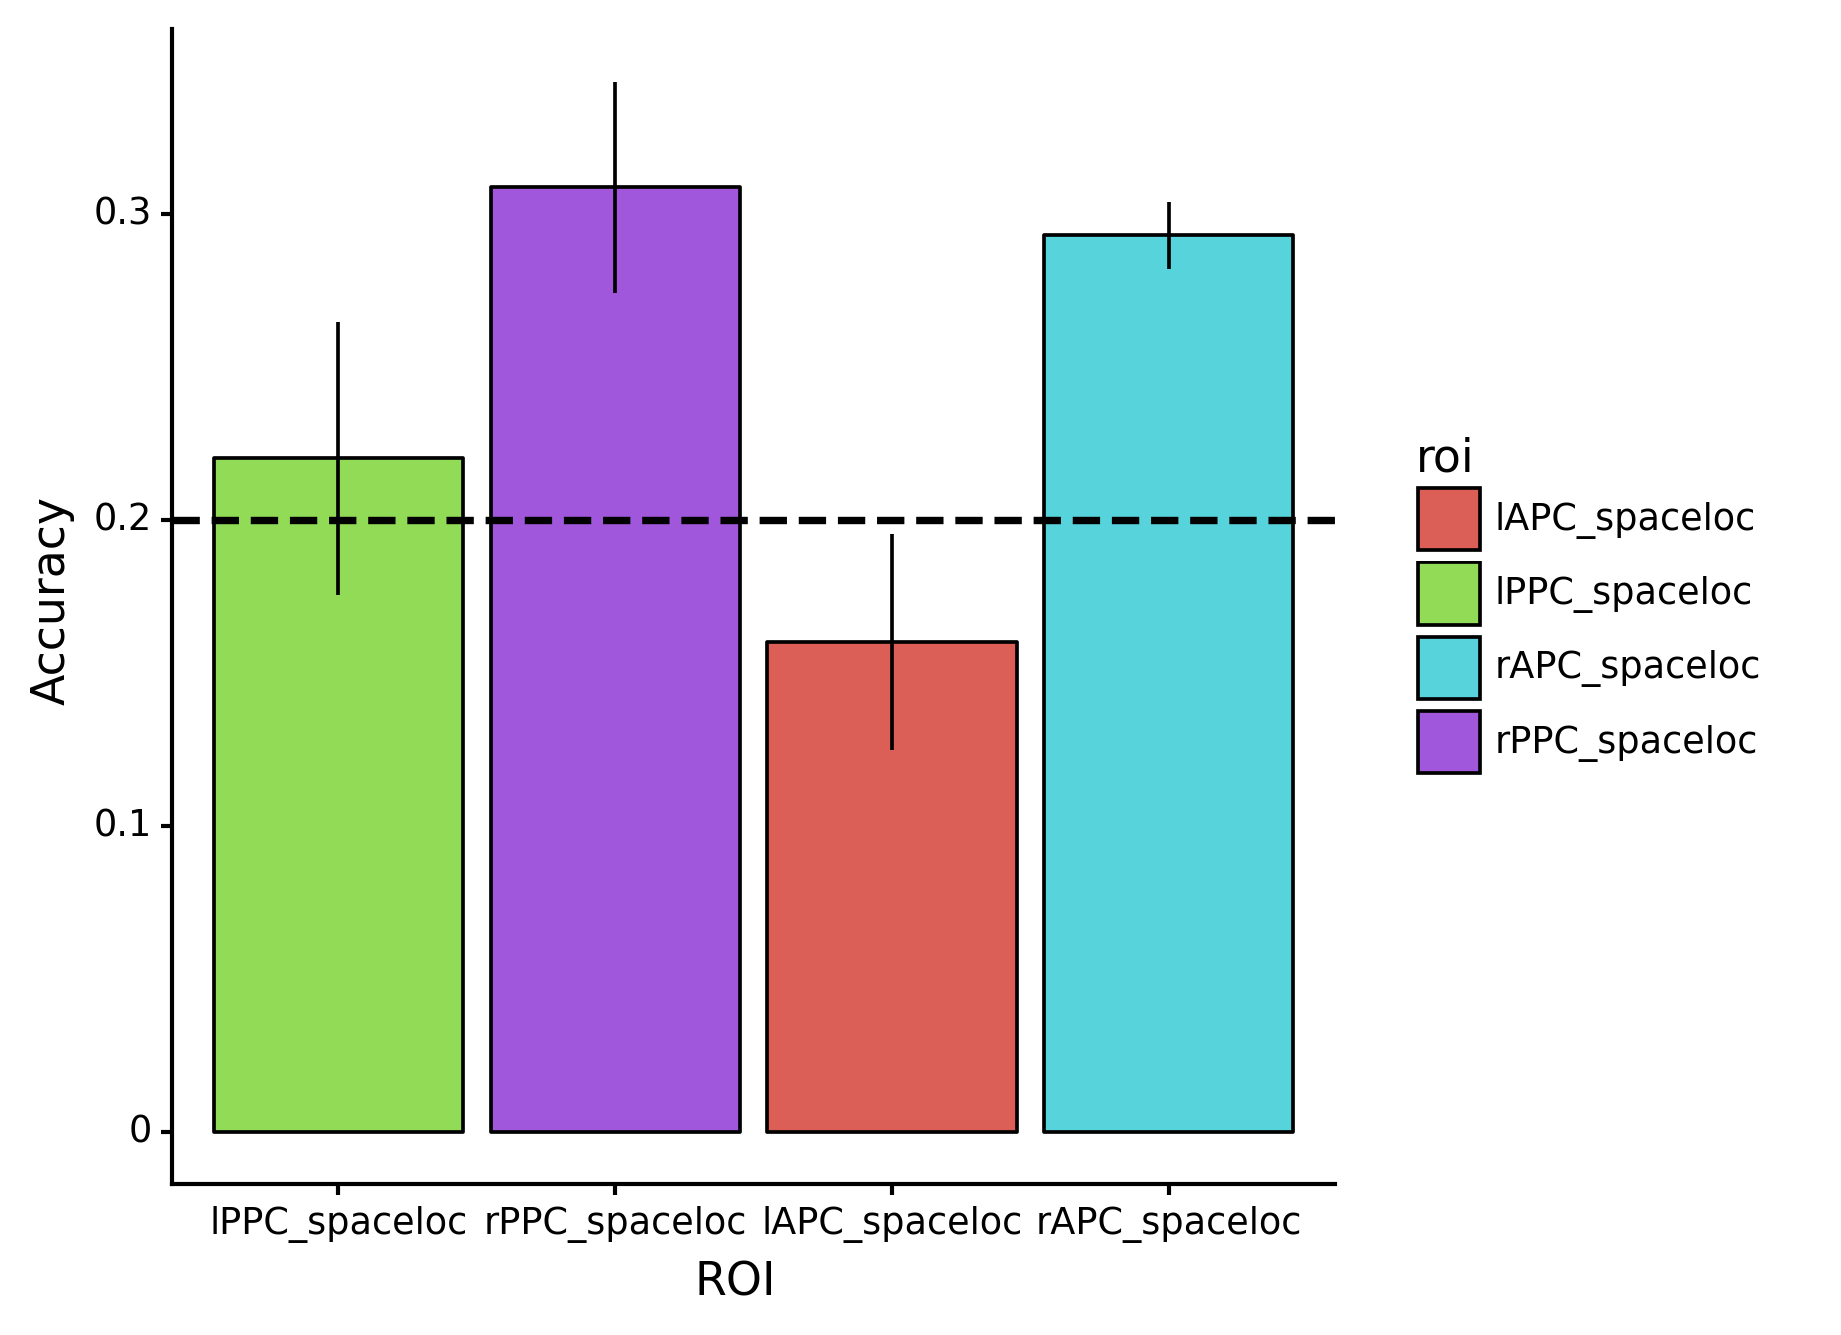
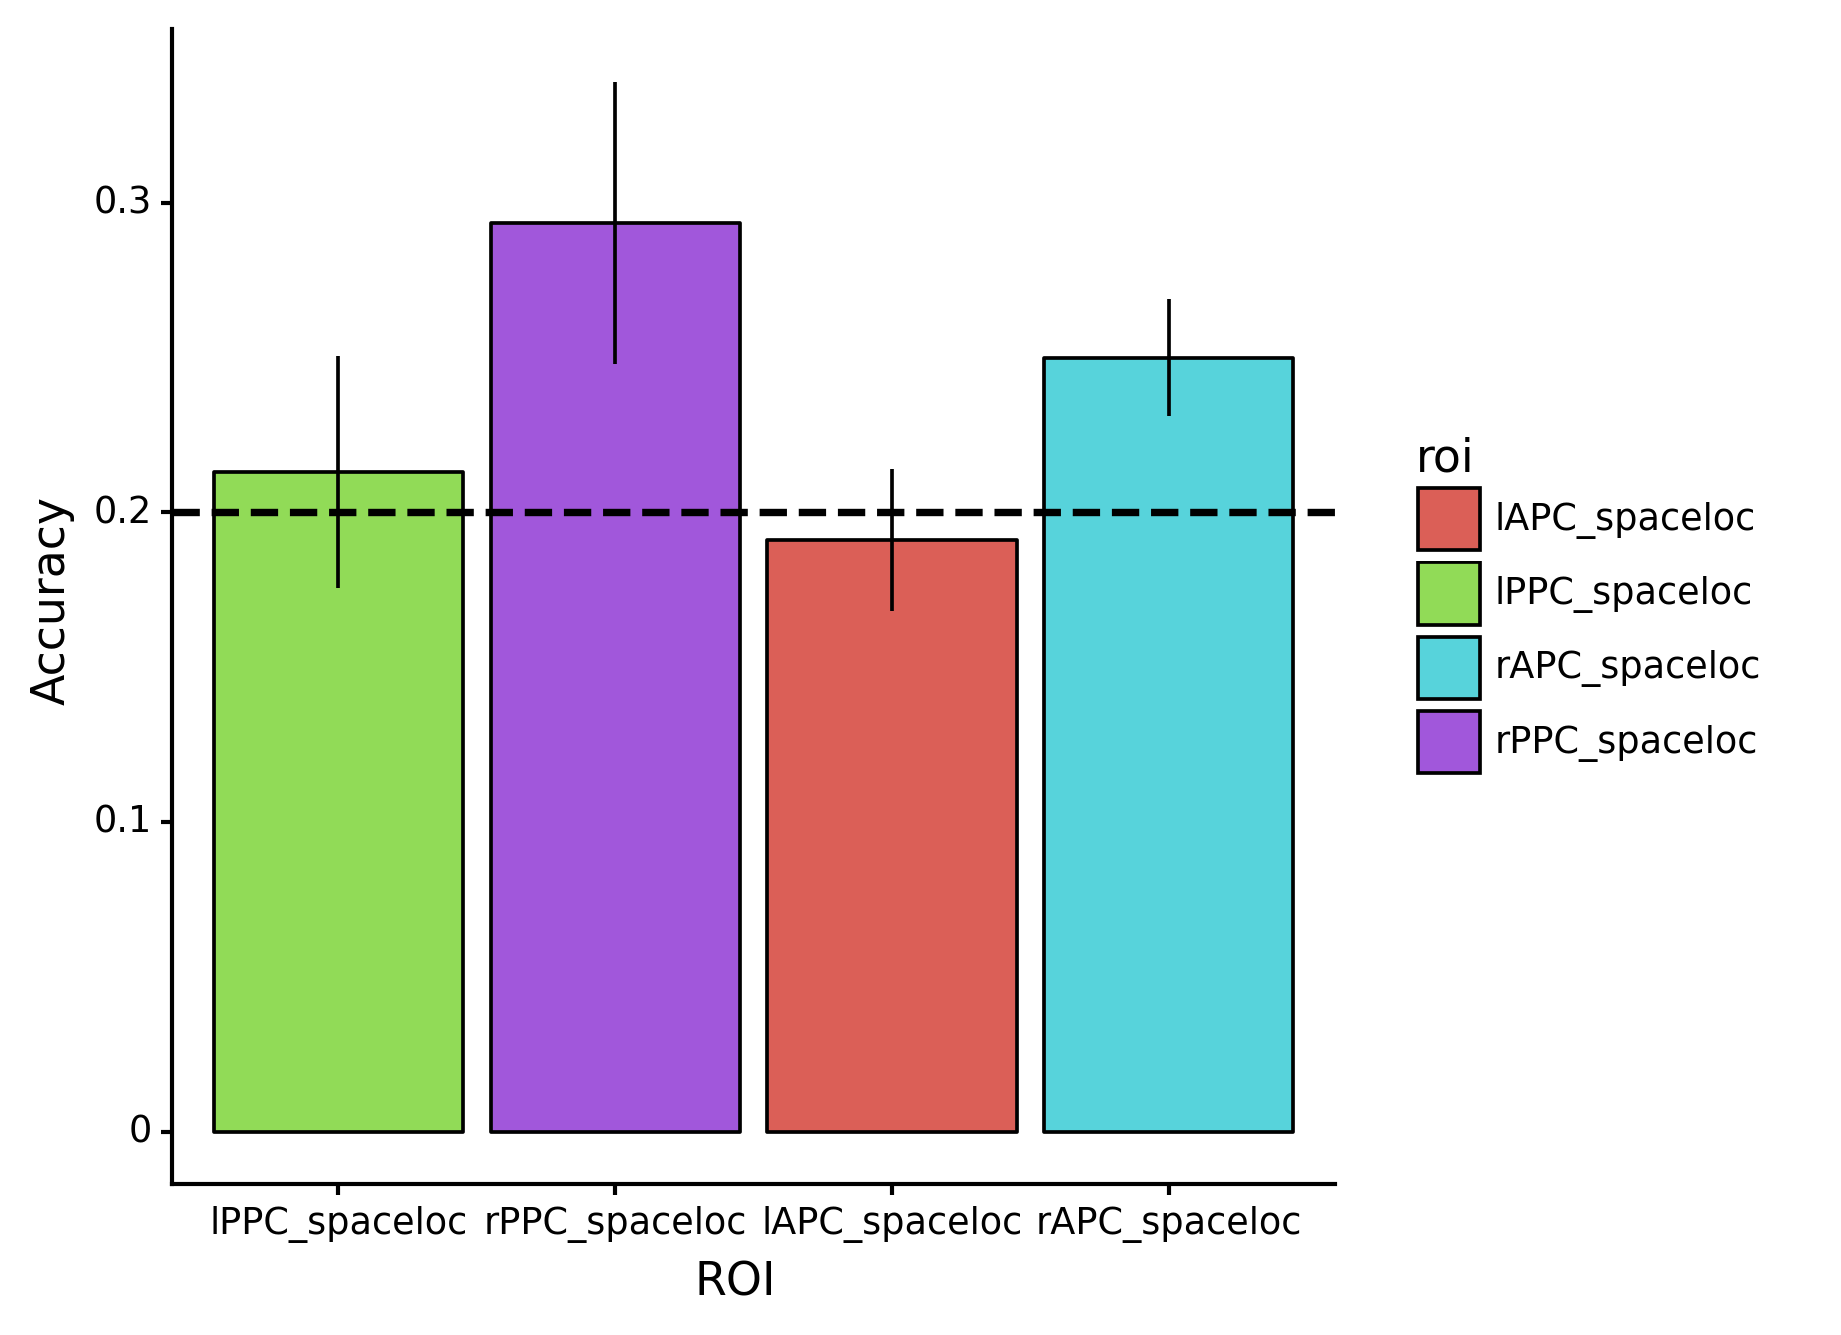
added model RDMS

diff --git a/modelling/.ipynb_checkpoints/cat_decoding-checkpoint.py b/modelling/.ipynb_checkpoints/cat_decoding-checkpoint.py
@@ -23,7 +23,7 @@ subj_list=["docnet2001", "docnet2003","docnet2004", "docnet2005", "docnet2007","
 d_roi = ['LOC','PPC_spaceloc', 'APC_spaceloc', 'PPC_depthloc', 'APC_depthloc', 'PPC_distloc',  'APC_distloc', 'PPC_toolloc', 'APC_toolloc']
 v_roi = ['LO_toolloc', 'PFS_toolloc']
 
-svm_test_size = .2
+svm_test_size = .4
 svm_splits = 20
 
 exp_cond = [ 'boat_1', 'boat_2', 'boat_3', 'boat_4', 'boat_5',
@@ -210,5 +210,5 @@ def decode_combined_roi():
             #for rr in d_roi:
 
 
-#decode_single_roi()
+decode_single_roi()
 decode_combined_roi()

diff --git a/modelling/cat_decoding.py b/modelling/cat_decoding.py
@@ -23,7 +23,7 @@ subj_list=["docnet2001", "docnet2003","docnet2004", "docnet2005", "docnet2007","
 d_roi = ['LOC','PPC_spaceloc', 'APC_spaceloc', 'PPC_depthloc', 'APC_depthloc', 'PPC_distloc',  'APC_distloc', 'PPC_toolloc', 'APC_toolloc']
 v_roi = ['LO_toolloc', 'PFS_toolloc']
 
-svm_test_size = .2
+svm_test_size = .4
 svm_splits = 20
 
 exp_cond = [ 'boat_1', 'boat_2', 'boat_3', 'boat_4', 'boat_5',
@@ -210,5 +210,5 @@ def decode_combined_roi():
             #for rr in d_roi:
 
 
-#decode_single_roi()
+decode_single_roi()
 decode_combined_roi()
